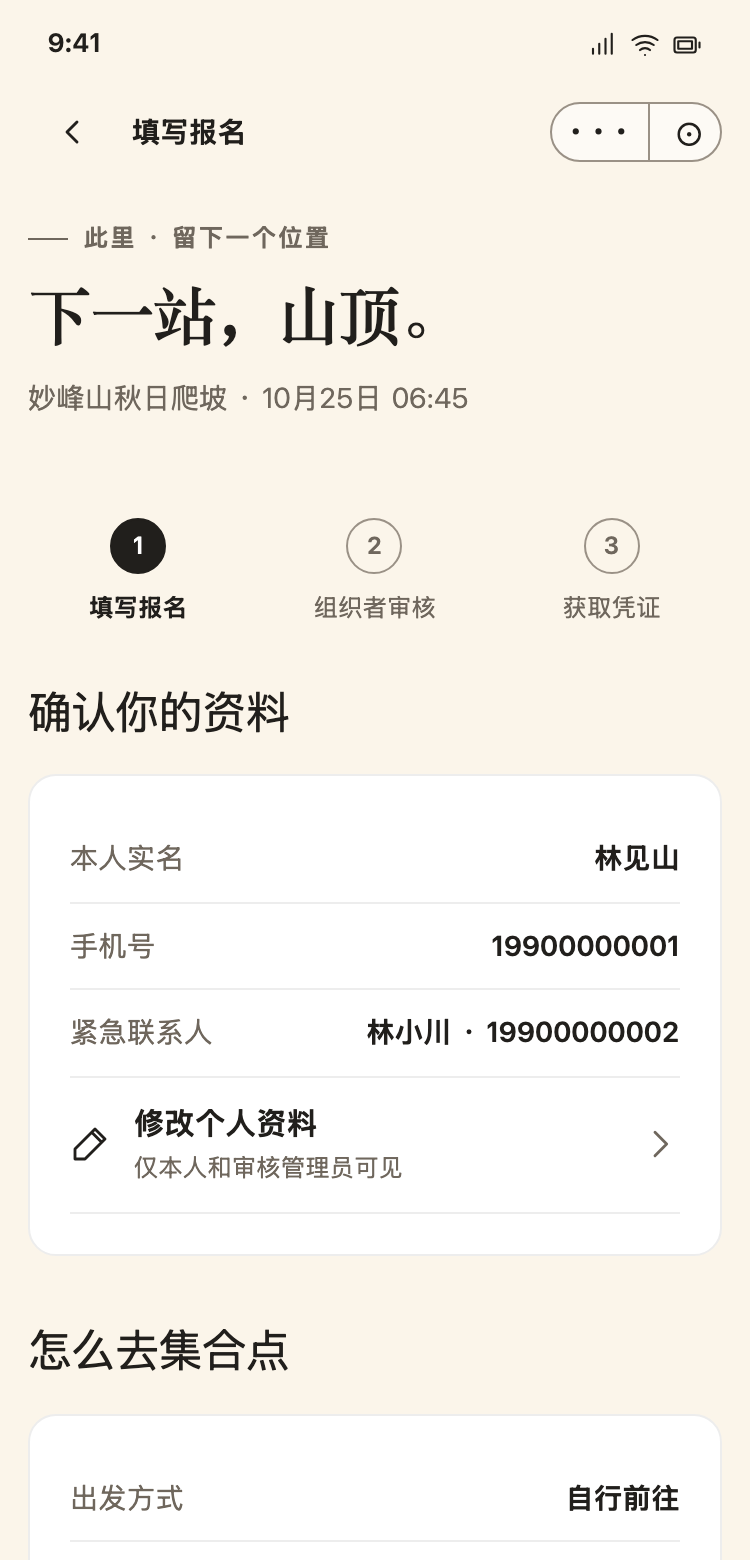
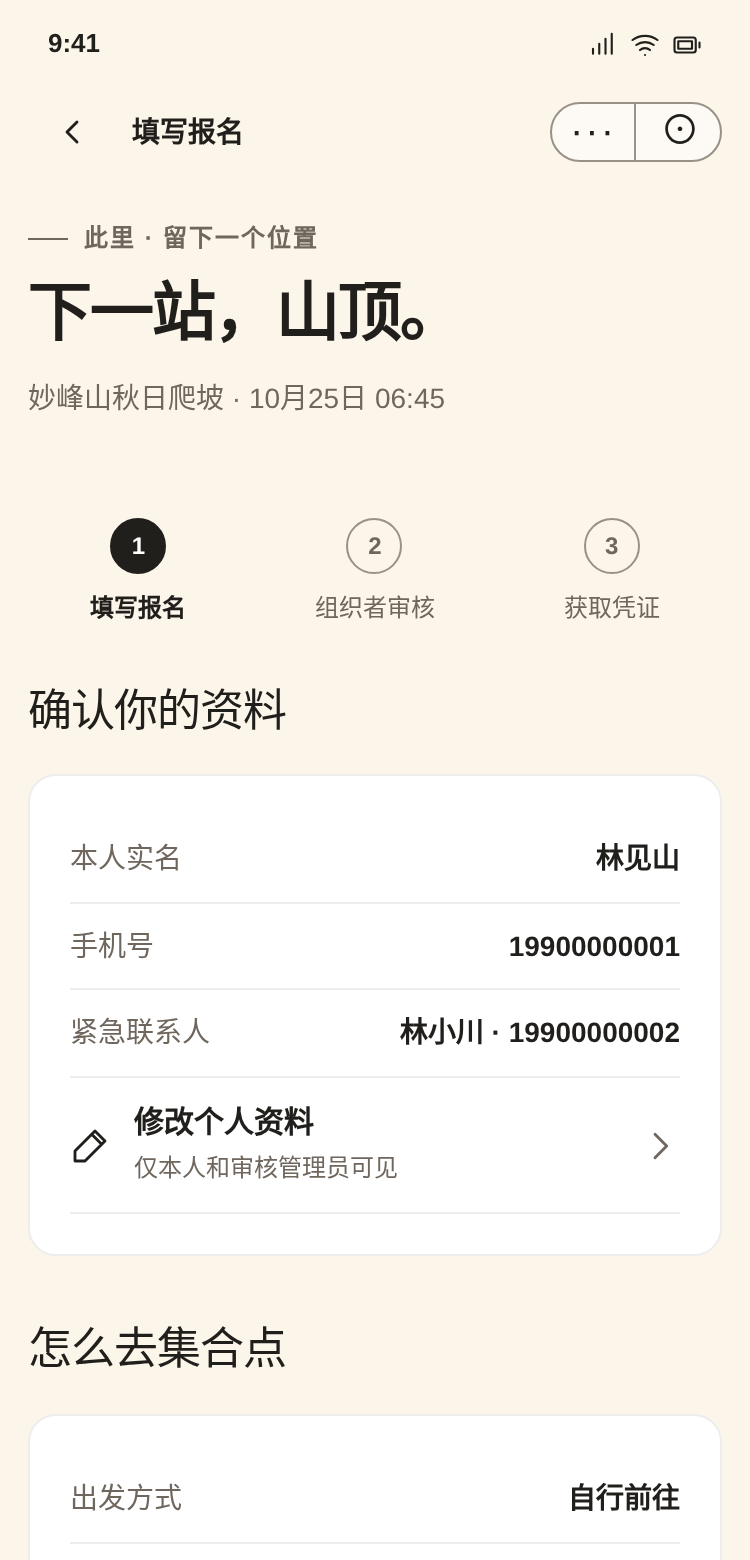
feat(ui): 收敛骑行影像志布局与交互反馈
* feat(ui): 收敛骑行影像志布局与交互反馈

统一活动、详情、报名、行程、个人中心与设置页的页面节奏和触控反馈。

新增路线异步状态卡、报名错误定位，并将低频设置页迁入分包以保持主包余量。

同步 16 页三档宽度视觉证据、发布日志与回归测试。

* docs(verification): 补充页面改造验收报告

---------

diff --git a/tests/settings-page.test.ts b/tests/settings-page.test.ts
@@ -62,32 +62,37 @@ describe('设置页', () => {
     await import('../miniprogram/pages/settings/index');
   });
 
-  it('当前版本为 2026.10.23.1 且 latest 唯一，上一版转为历史项', () => {
-    expect(CLIENT_RELEASE_VERSION).toBe('2026.10.23.1');
-    expect(page.data.releaseNotes).toHaveLength(29);
+  it('当前版本为 2026.10.24.1 且 latest 唯一，上一版转为历史项', () => {
+    expect(CLIENT_RELEASE_VERSION).toBe('2026.10.24.1');
+    expect(page.data.releaseNotes).toHaveLength(30);
     expect(page.data.currentRelease).toBe(page.data.releaseNotes[0]);
     expect(page.data.currentRelease).toMatchObject({
-      version: '2026.10.23.1',
-      date: '2026-10-23',
-      title: '头像、状态文字与群二维码显示更清晰',
+      version: '2026.10.24.1',
+      date: '2026-10-24',
+      title: '页面布局和操作反馈更顺手',
       latest: true,
     });
     expect(page.data.releaseNotes[1]).toMatchObject({
+      version: '2026.10.23.1',
+      title: '头像、状态文字与群二维码显示更清晰',
+      latest: false,
+    });
+    expect(page.data.releaseNotes[2]).toMatchObject({
       version: '2026.10.22.4',
       title: '骑行影像志运行态视觉对齐',
       latest: false,
     });
-    expect(page.data.releaseNotes[2]).toMatchObject({
+    expect(page.data.releaseNotes[3]).toMatchObject({
       version: '2026.10.22.3',
       title: '影像志排版与设计稿逐页对齐',
       latest: false,
     });
-    expect(page.data.releaseNotes[3]).toMatchObject({
+    expect(page.data.releaseNotes[4]).toMatchObject({
       version: '2026.10.22.2',
       title: '骑行影像志，头像和背景合为我的名片',
       latest: false,
     });
-    expect(page.data.releaseNotes[4]).toMatchObject({
+    expect(page.data.releaseNotes[5]).toMatchObject({
       version: '2026.10.21.7',
       title: '活动发现与报名反馈更清晰',
       latest: false,

diff --git a/tests/oil-ui-interaction-layout.test.ts b/tests/oil-ui-interaction-layout.test.ts
@@ -1,0 +1,37 @@
+// @ts-expect-error The repository intentionally omits Node typings; Vitest provides this runtime.
+import { readFileSync } from 'node:fs';
+import { describe, expect, it } from 'vitest';
+
+const read = (path: string) => readFileSync(path, 'utf8');
+
+describe('Oil UI 交互与布局收敛', () => {
+  it('保留三栏底部导航并统一全局交互 token', () => {
+    const appJson = JSON.parse(read('miniprogram/app.json'));
+    expect(appJson.tabBar.list.map((item: { text: string }) => item.text)).toEqual([
+      '活动',
+      '行程',
+      '我的',
+    ]);
+    const appStyle = read('miniprogram/app.wxss');
+    expect(appStyle).toContain('--motion-duration-fast');
+    expect(appStyle).toContain('transform: scale(0.985)');
+    expect(appStyle).toContain('.rowbutton:active');
+  });
+
+  it('活动详情使用异步状态卡并将费用前置到路线之前', () => {
+    const detail = read('miniprogram/pages/activity-detail/index.wxml');
+    expect(detail).toContain('<async-status-card');
+    expect(detail.indexOf('<!-- 费用与名额前置')).toBeLessThan(detail.indexOf('<!-- 山路有迹可循'));
+    const component = read(
+      'miniprogram/pages/activity-detail/components/async-status-card/index.wxml',
+    );
+    expect(component).toContain('aria-live="polite"');
+  });
+
+  it('报名错误具备可定位锚点', () => {
+    const form = read('miniprogram/pages/registration-form/index.wxml');
+    const logic = read('miniprogram/pages/registration-form/index.ts');
+    expect(form).toContain('id="registration-errors"');
+    expect(logic).toContain("selector: '#registration-errors'");
+  });
+});

diff --git a/miniprogram/pages/settings/index.ts b/miniprogram/pages/settings/index.ts
@@ -12,10 +12,22 @@ const MAX_SUBSCRIPTION_TEMPLATES = 3;
 const RELEASE_NOTES = [
   {
     version: CLIENT_RELEASE_VERSION,
+    date: '2026-10-24',
+    title: '页面布局和操作反馈更顺手',
+    summary: '在保留骑行影像志主题的基础上，统一页面节奏、报名反馈与路线状态。',
+    latest: true,
+    features: [
+      '活动筛选吸顶、日期滑动提示与卡片按压反馈更清晰',
+      '活动费用前置，路线下载和复制状态集中展示',
+      '报名错误自动定位，行程、个人中心与设置页布局更紧凑',
+    ],
+  },
+  {
+    version: '2026.10.23.1',
     date: '2026-10-23',
     title: '头像、状态文字与群二维码显示更清晰',
     summary: '统一圆形头像、单行状态文字和带留白的活动群二维码展示。',
-    latest: true,
+    latest: false,
     features: [
       '个人资料与审核页面统一使用圆形头像，不再叠加方形边框',
       '短状态和关键身份值保持单行，较长说明按自然词语换行',

diff --git a/tests/boiling-point-first-batch-contract.test.ts b/tests/boiling-point-first-batch-contract.test.ts
@@ -89,9 +89,9 @@ describe('沸点首批六页尺寸契约', () => {
     expect(app).toContain('padding: 32rpx var(--page-gutter);');
     // pageheading 字号与设计稿双行宋体对齐
     expect(declaration(effectiveBlock(styles, '.pageheading-title'), 'line-height')).toBe('80rpx');
-    // row.rowlink.rowbutton 使用 60px 无卡片分隔行（对齐设计稿 .row.rowlink.rowbutton）
+    // row.rowlink.rowbutton 使用 52px 紧凑分隔行（保留完整触控区）
     const row = effectiveBlock(styles, '.row.rowlink.rowbutton');
-    expect(declaration(row, 'min-height')).toBe('120rpx');
+    expect(declaration(row, 'min-height')).toBe('104rpx');
     expect(declaration(row, 'background')).toBe('transparent');
     expect(declaration(row, 'border-bottom')).toContain('var(--color-border)');
     // detailrows 用来承载"当前版本/本次更新"，不再是整块 release-card

diff --git a/tests/main-package-contract.test.ts b/tests/main-package-contract.test.ts
@@ -18,6 +18,7 @@ const {
 const appConfig = JSON.parse(readFileSync('miniprogram/app.json', 'utf8')) as MiniProgramAppConfig;
 
 const expectedPackages = [
+  { root: 'pages/settings', pages: ['index'] },
   { root: 'pages/activity-detail', pages: ['index'] },
   { root: 'pages/route-analysis', pages: ['index'] },
   { root: 'pages/profile-edit', pages: ['index'] },
@@ -36,7 +37,7 @@ const expectedPackages = [
 ];
 
 describe('按需分包与主包字节契约', () => {
-  it('五个低频功能均按需加载且完整路由仍为 17 个', () => {
+  it('六个低频功能均按需加载且完整路由仍为 17 个', () => {
     expect(appConfig.subpackages).toEqual(expectedPackages);
     const routes = expandAppRoutes(appConfig);
     expect(routes).toHaveLength(17);

diff --git a/miniprogram/pages/registration-form/index.ts b/miniprogram/pages/registration-form/index.ts
@@ -170,7 +170,12 @@ Page({
     const errors = validateRegistration(this.data);
     if (this.data.teamParameterError) errors.push(this.data.teamParameterError);
     if (!this.data.activityCanSubmit) errors.push(this.data.activityAction.label);
-    if (errors.length) return this.setData({ errors });
+    if (errors.length) {
+      this.setData({ errors }, () => {
+        wx.pageScrollTo?.({ selector: '#registration-errors', offsetTop: -16, duration: 180 });
+      });
+      return;
+    }
     const requestId = ++this.submitRequestId;
     this.submissionPending = true;
     this.setData({ submitting: true, errors: [], submitFeedback: '正在提交报名，请稍候' });

diff --git a/miniprogram/pages/activity-detail/components/async-status-card/index.ts b/miniprogram/pages/activity-detail/components/async-status-card/index.ts
@@ -1,0 +1,13 @@
+Component({
+  properties: {
+    title: { type: String, value: '' },
+    detail: { type: String, value: '' },
+    state: { type: String, value: 'pending' },
+    actionLabel: { type: String, value: '' },
+  },
+  methods: {
+    onAction() {
+      this.triggerEvent('action');
+    },
+  },
+});

diff --git a/miniprogram/config/release.ts b/miniprogram/config/release.ts
@@ -1,1 +1,1 @@
-export const CLIENT_RELEASE_VERSION = '2026.10.23.1';
+export const CLIENT_RELEASE_VERSION = '2026.10.24.1';

diff --git a/docs/verification/2026-10-24-oil-ui-interaction-layout.md b/docs/verification/2026-10-24-oil-ui-interaction-layout.md
@@ -1,0 +1,31 @@
+# Oil UI 页面交互与布局改造验收报告
+
+## 验收范围
+
+- 活动列表：标题节奏、筛选吸顶、三栏导航保持不变。
+- 活动详情：费用信息前置、路线下载与复制异步状态统一。
+- 报名流程：首屏压缩、校验失败自动定位提示。
+- 行程：统计区域压缩、票券首屏可见性提升。
+- 个人中心：资料完整度卡片密度与边框收敛。
+- 设置页：52px 行高、hairline 分隔，并迁入低频分包。
+
+## 自动化验证
+
+| 类型 | 命令 | 结果 |
+| --- | --- | --- |
+| 全量门禁 | `npm run validate` | 通过 |
+| 覆盖率 | `npm run coverage` | 通过，1282 项 Vitest 用例全部通过 |
+| 安全审计 | `npm run audit:all` | 通过，无高危依赖漏洞 |
+| Diff 卫生 | `git diff --check` | 通过 |
+| UI 同步 | `npm run check:ui-sync -- --strict` | 通过 |
+| 主包体积 | `npm run check:main-package` | 通过，422209 字节，余量 37106 字节 |
+
+## 端到端验收
+
+执行 `npm run test:phase3-visual`，覆盖 16 个页面的 340px、375px、430px 三档宽度，共 48 个组合；全部通过，无横向溢出、遮挡、无效小触控目标或控制台错误。
+
+视觉证据位于 `docs/evidence/phase3-three-width/`，本次提交更新六个受影响页面的 18 张截图及汇总报告。
+
+## 部署影响
+
+仅修改小程序前端、路由分包、视觉证据与测试；没有云函数、数据库、索引或接口变更。合并后由 GitHub Actions 完成微信开发版自动上传。
